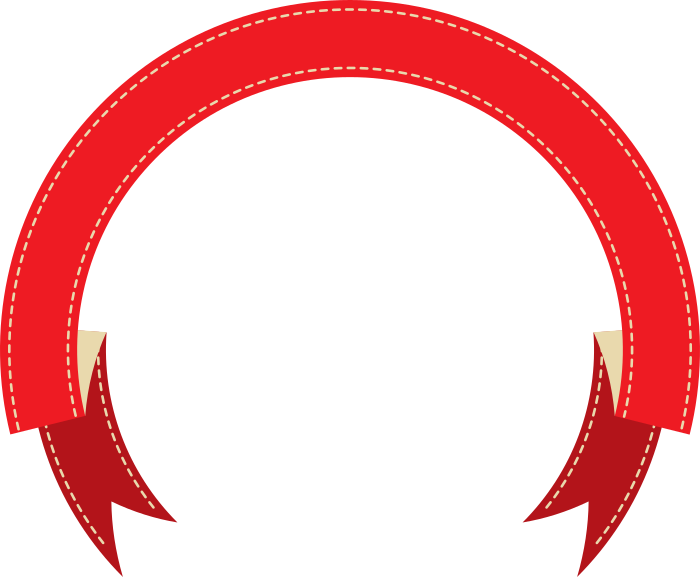
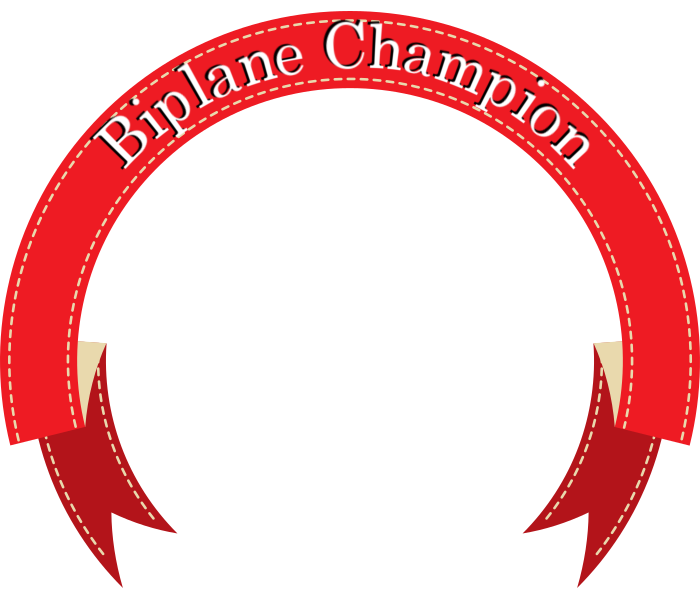
Added title text to title screen. Finally thought of a name: "Biplane Champion".

diff --git a/js/menu.js b/js/menu.js
@@ -29,11 +29,11 @@ var menuState = {
     this.clouds.menuClouds( 8, /*far*/2 );
 
     this.ribbon = game.add.sprite(game.width/2, game.height/2, 'ribbon');
-    this.ribbon.anchor.set(0.5, 0.5); this.ribbon.scale.set(0.85,0.85);
+    this.ribbon.anchor.set(0.5, 0.5); this.ribbon.scale.set(0.9,0.9);
 
     this.planeGroup = game.add.group();
     this.planeGroup.x=game.width/2; this.planeGroup.y=game.height/2;
-    this.plane = game.add.sprite(0,0, 'biplane');
+    this.plane = game.add.sprite(0,0, 'biplane'); this.plane.scale.set(0.85,0.85);
     this.plane.anchor.set(0.5, 0.5); 
     this.planeGroup.add(this.plane);
     this.prop = game.add.sprite(271,-4, 'prop');
